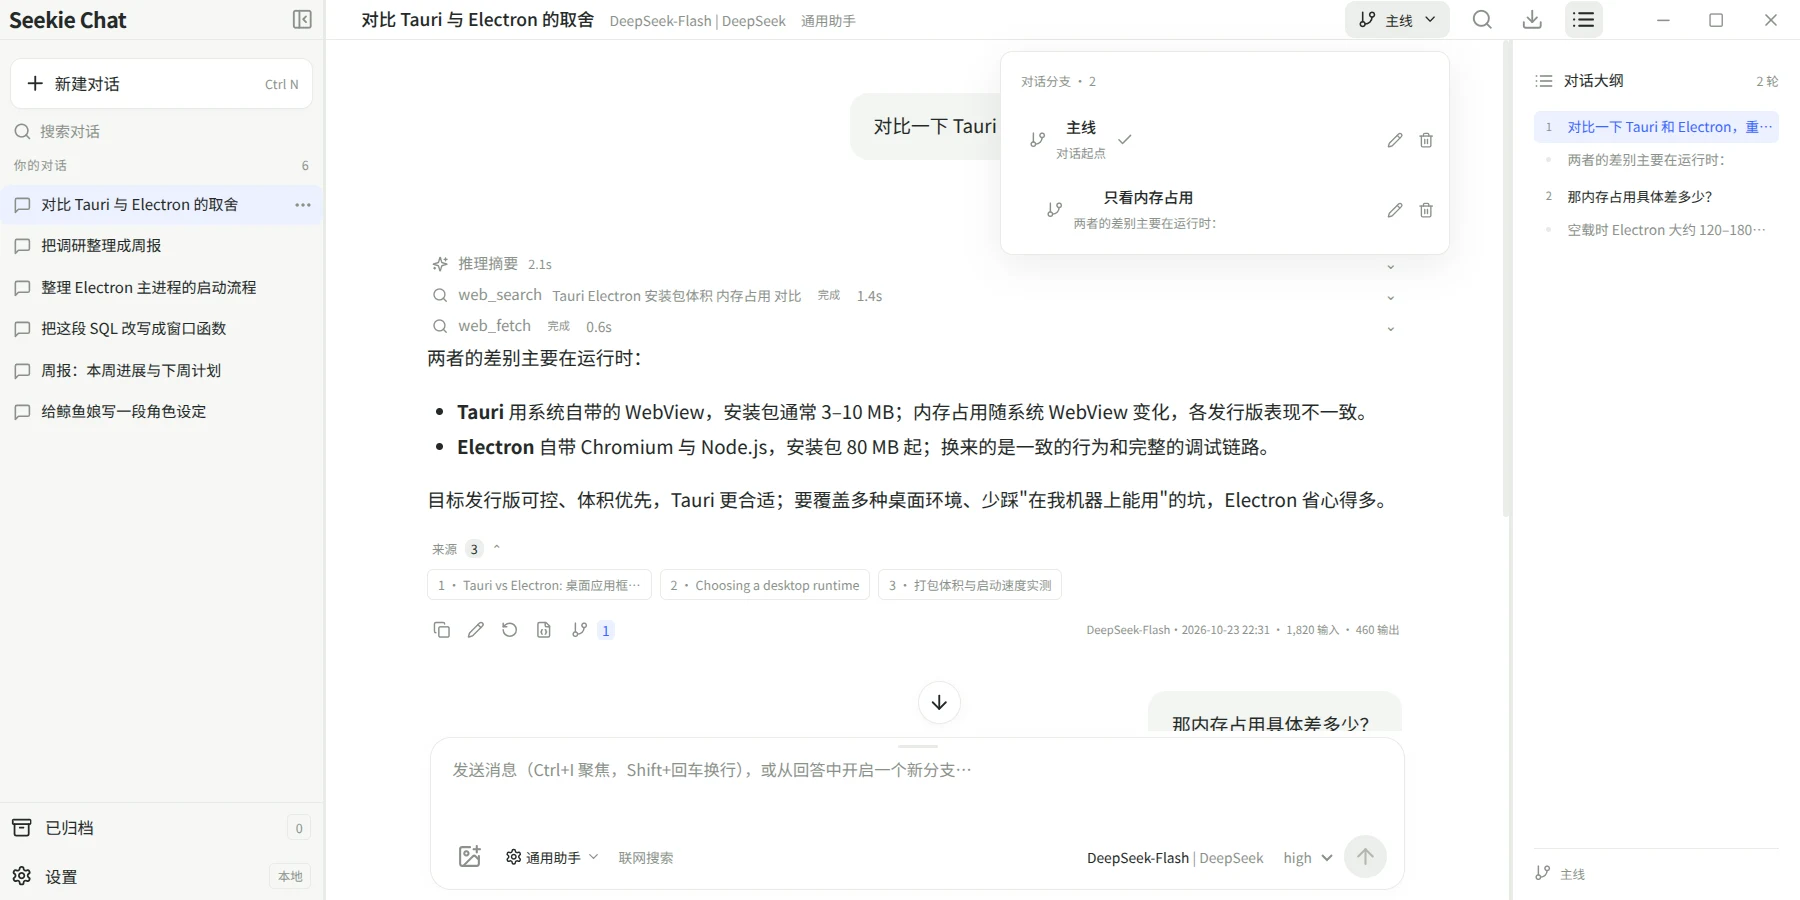
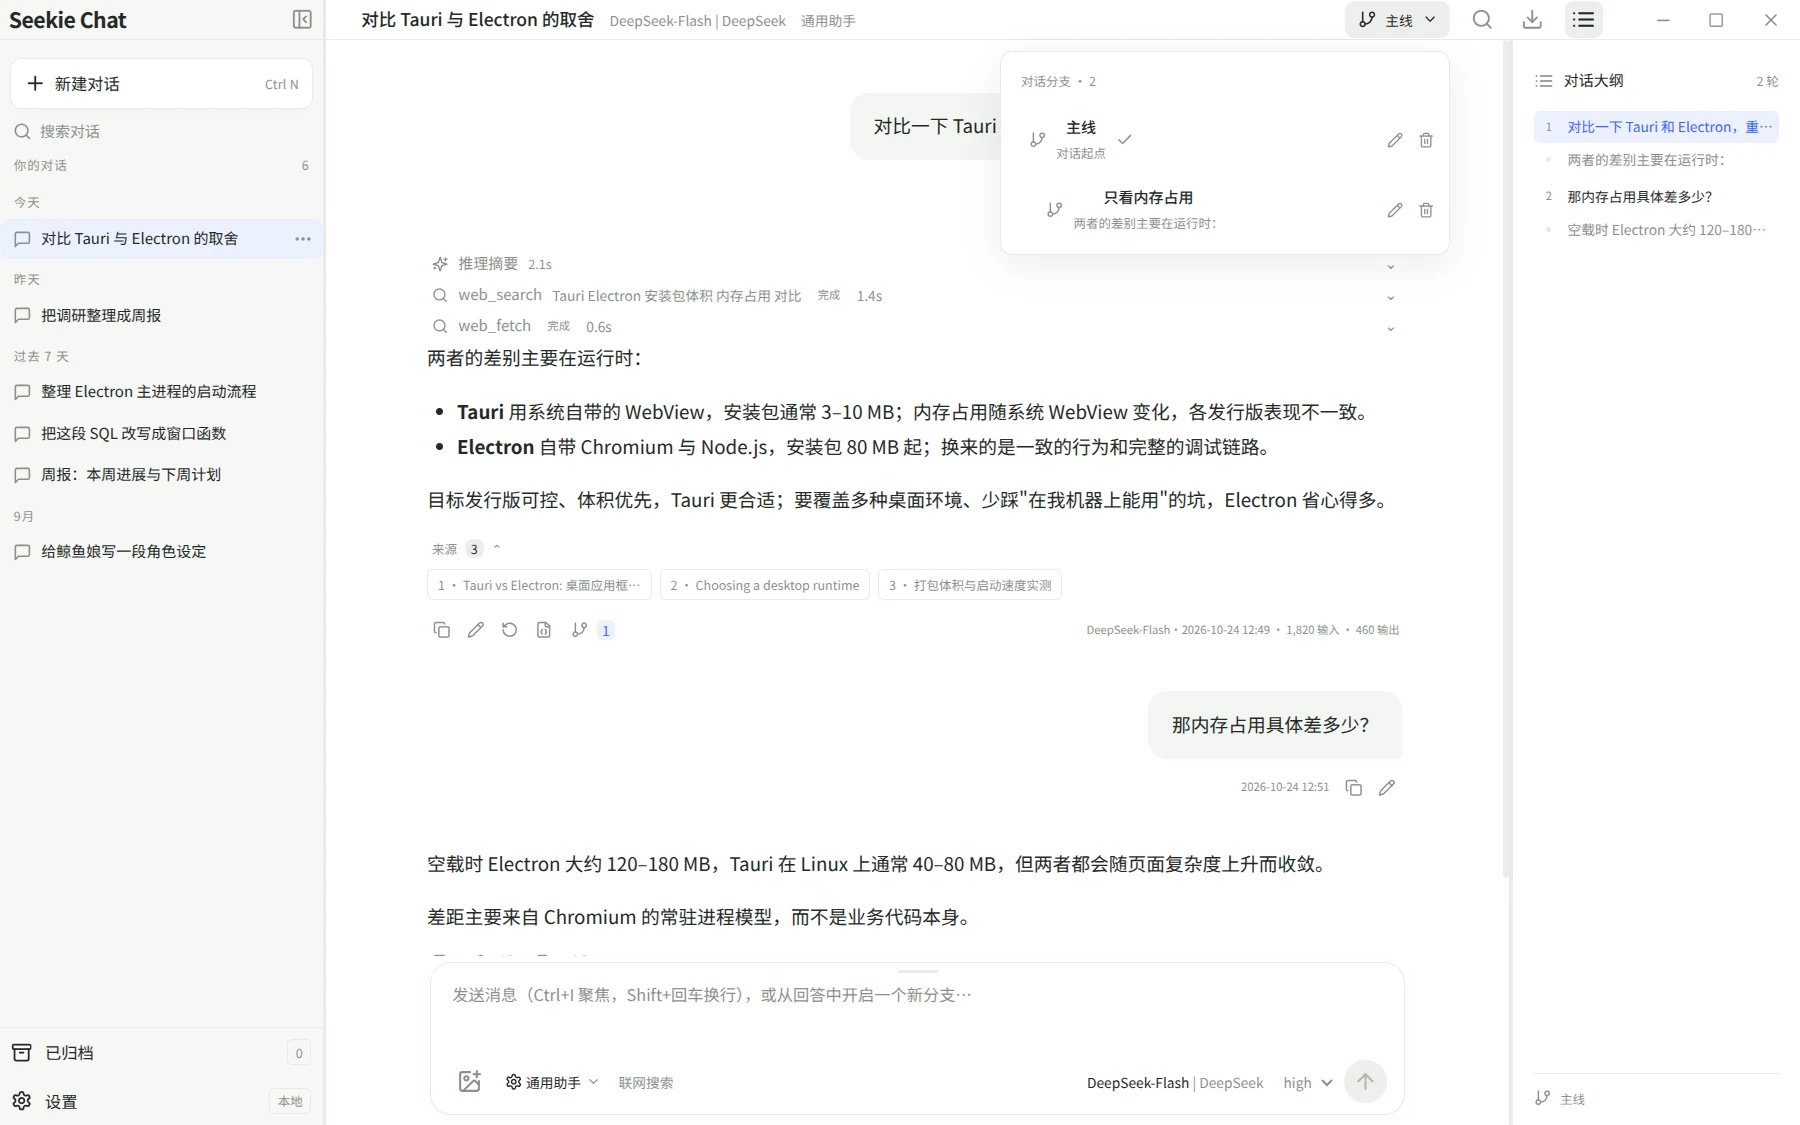
侧栏会话按作息日分组，标题吸顶
- 会话多了以后平铺列表不好找：按最后消息时间分成今天/昨天/过去 7 天/
  过去 30 天，更早的本年按月（9月）、往年按年（2025年）；空分组不显示。
  搜索与归档视图同样分组；日界线设在早上 6 点，夜猫子凌晨的消息仍归昨天。
- 分组做成 domain.ts 的纯函数：6 点边界、7/30 天、本月按月与往年按年
  都有单测覆盖；Sidebar 只负责渲染。吸顶背景用不透明的 --panel，否则
  滚过的会话会从标题下面透出来。
- 冒烟新增 sidebar time groups 阶段：注入跨分组会话（保留原会话，避免它们
  引用的附件文件被当成孤儿清理），断言标题顺序、搜索分组与吸顶偏移，最后
  还原快照。
- 截图的模拟会话时间铺开到多个分组，重新生成全部截图。
- 验证：npm run check 181 通过；npm run test:desktop 真实 Electron 冒烟 PASS。

diff --git a/tests/domain.test.ts b/tests/domain.test.ts
@@ -2,8 +2,8 @@ import { test } from 'node:test';
 import assert from 'node:assert/strict';
 import type { Connection, Model } from '../src/types';
 import { uid } from '../src/domain';
-import type { Message, Settings } from '../src/types';
-import { addMessage, appendAssistantSegment, appendReasoningDuration, applyBodies, assistantBody, branchTree, defaultModelEffort, editableBodies, compressionCut, contextMessages, connectionEnabled, createConversation, deepseekWebSearchKey, defaultModelEfforts, defaultPromptPresets, editMessage, effectiveProtocol, enabledModels, externalSearchAvailable, estimateTokens, estimateToolTokens, fallbackModelId, formatToolOutput, fork, freeModelSettings, initialState, MAX_RECENT_MODELS, messageDateTime, messageModelLabel, newChatModelId, normalizeSettings, rememberRecentModel, resetBuiltInPresets, resolveSearch, resolveDefaultWebFetch, sameMessage, pathTo, removeBranch, shouldDefaultVisionAndTools, summaryHasToolResults, toolQuery, uniqueBranchName } from '../src/domain';
+import type { Conversation, Message, Settings } from '../src/types';
+import { addMessage, appendAssistantSegment, appendReasoningDuration, applyBodies, assistantBody, branchTree, defaultModelEffort, editableBodies, compressionCut, contextMessages, connectionEnabled, conversationGroups, createConversation, deepseekWebSearchKey, defaultModelEfforts, defaultPromptPresets, editMessage, effectiveProtocol, enabledModels, externalSearchAvailable, estimateTokens, estimateToolTokens, fallbackModelId, formatToolOutput, fork, freeModelSettings, initialState, MAX_RECENT_MODELS, messageDateTime, messageModelLabel, newChatModelId, normalizeSettings, rememberRecentModel, resetBuiltInPresets, resolveSearch, resolveDefaultWebFetch, sameMessage, pathTo, removeBranch, shouldDefaultVisionAndTools, summaryHasToolResults, toolQuery, uniqueBranchName } from '../src/domain';
 import { settingsProblems } from '../src/validation';
 function fixture() {
   const c = createConversation(initialState().settings), b = c.branches[0];
@@ -761,4 +761,46 @@ test('the whale prompt is a built-in constant that outlives the role library', a
   const withoutRole = defaultPromptPresets().filter(p => p.id !== 'whale_lady');
   assert.ok(!withoutRole.some(p => p.content === WHALELADY_SYSTEM_PROMPT), '删掉角色后库里不该再有它');
   assert.equal(resetBuiltInPresets(withoutRole).find(p => p.id === 'whale_lady')!.content, WHALELADY_SYSTEM_PROMPT, '重置预设角色会把它按内置提示词补回');
+});
+
+// 侧栏分组：日界线在早上 6 点，输入已按 updated 倒序。
+const localTime = (year: number, month: number, day: number, hour = 12, minute = 0) => new Date(year, month - 1, day, hour, minute).getTime();
+const conversationUpdatedAt = (updated: number): Conversation => ({ ...createConversation(initialState().settings), title: 't', updated });
+
+test('sidebar groups put messages before 06:00 on the previous day', () => {
+  const now = localTime(2026, 10, 24, 8);
+  const groups = conversationGroups([
+    conversationUpdatedAt(localTime(2026, 10, 24, 6)),
+    conversationUpdatedAt(localTime(2026, 10, 24, 5, 59)),
+    conversationUpdatedAt(localTime(2026, 10, 23, 22)),
+  ], now);
+  assert.deepEqual(groups.map(group => [group.label, group.conversations.length]), [['今天', 1], ['昨天', 2]]);
+  assert.equal(groups[0].conversations[0].updated, localTime(2026, 10, 24, 6), '06:00 属于新的一天');
+});
+
+test('sidebar groups cover 7 and 30 day buckets, then months', () => {
+  const now = localTime(2026, 10, 24, 12);
+  const daysAgo = (days: number) => localTime(2026, 10, 24 - days);
+  const groups = conversationGroups([
+    conversationUpdatedAt(daysAgo(0)), conversationUpdatedAt(daysAgo(1)), conversationUpdatedAt(daysAgo(2)),
+    conversationUpdatedAt(daysAgo(6)), conversationUpdatedAt(daysAgo(7)), conversationUpdatedAt(daysAgo(29)),
+    conversationUpdatedAt(daysAgo(30)),
+  ], now);
+  assert.deepEqual(groups.map(group => group.label), ['今天', '昨天', '过去 7 天', '过去 30 天', '9月']);
+  assert.deepEqual(groups.map(group => group.conversations.length), [1, 1, 2, 2, 1], '空分组不应出现');
+});
+
+test('older sidebar groups use month labels this year and year labels before', () => {
+  const now = localTime(2026, 2, 10, 12);
+  const groups = conversationGroups([
+    conversationUpdatedAt(localTime(2026, 1, 5)),
+    conversationUpdatedAt(localTime(2025, 12, 15)),
+  ], now);
+  assert.deepEqual(groups.map(group => group.label), ['1月', '2025年']);
+});
+
+test('future timestamps stay under today and empty lists have no groups', () => {
+  const now = localTime(2026, 10, 24, 12);
+  assert.deepEqual(conversationGroups([conversationUpdatedAt(now + 60_000)], now).map(group => group.label), ['今天']);
+  assert.deepEqual(conversationGroups([], now), []);
 });

diff --git a/src/Sidebar.tsx b/src/Sidebar.tsx
@@ -1,5 +1,7 @@
+import { Fragment } from 'react';
 import { Archive, MessageSquare, MoreHorizontal, PanelLeftClose, Plus, Search, Settings as SettingsIcon } from 'lucide-react';
 import type { Conversation } from './types';
+import { conversationGroups } from './domain';
 
 export type MenuAnchor = { top: number; bottom: number; right: number };
 
@@ -18,16 +20,19 @@ export default function Sidebar({ width, conversations, selectedId, query, showA
       <div className="search-input"><Search size={15}/><input aria-label="搜索对话" placeholder="搜索对话" value={query} onChange={e => onQueryChange(e.target.value)}/></div>
       <div className="sidebar-label">{showArchived ? '已归档' : '你的对话'} <span>{conversations.length}</span></div>
       <div className="conversation-list" onScroll={() => { if (openMenuId) onMenu(openMenuId, null); }}>
-        {conversations.map(conversation => <div key={conversation.id} className={`conversation-item ${conversation.id === selectedId && !showSettings ? 'active' : ''}`}
-          onContextMenu={event => { event.preventDefault(); onMenu(conversation.id, { top: event.clientY, bottom: event.clientY, right: event.clientX }); }}>
-          <button className="conversation-select" onClick={() => onSelect(conversation.id)} title={conversation.title}>
-            <MessageSquare size={15}/><span>{conversation.title}</span>{runningIds.includes(conversation.id) && <i className="status-dot"/>}
-          </button>
-          <button className="conversation-more icon-button" title="会话操作" aria-haspopup="menu" aria-expanded={openMenuId === conversation.id}
-            onClick={event => { const rect = event.currentTarget.getBoundingClientRect(); onMenu(conversation.id, { top: rect.top, bottom: rect.bottom, right: rect.right }); }}>
-            <MoreHorizontal size={16}/>
-          </button>
-        </div>)}
+        {conversationGroups(conversations).map(group => <Fragment key={group.key}>
+          <div className="conversation-group">{group.label}</div>
+          {group.conversations.map(conversation => <div key={conversation.id} className={`conversation-item ${conversation.id === selectedId && !showSettings ? 'active' : ''}`}
+            onContextMenu={event => { event.preventDefault(); onMenu(conversation.id, { top: event.clientY, bottom: event.clientY, right: event.clientX }); }}>
+            <button className="conversation-select" onClick={() => onSelect(conversation.id)} title={conversation.title}>
+              <MessageSquare size={15}/><span>{conversation.title}</span>{runningIds.includes(conversation.id) && <i className="status-dot"/>}
+            </button>
+            <button className="conversation-more icon-button" title="会话操作" aria-haspopup="menu" aria-expanded={openMenuId === conversation.id}
+              onClick={event => { const rect = event.currentTarget.getBoundingClientRect(); onMenu(conversation.id, { top: rect.top, bottom: rect.bottom, right: rect.right }); }}>
+              <MoreHorizontal size={16}/>
+            </button>
+          </div>)}
+        </Fragment>)}
         {!conversations.length && <p className="sidebar-empty">{query ? '没有找到对话' : showArchived ? '暂无已归档对话' : '开始你的第一段对话'}</p>}
       </div>
       <div className="sidebar-bottom">

diff --git a/src/domain.ts b/src/domain.ts
@@ -350,6 +350,40 @@ export function branchTree(branches: Branch[]): { branch: Branch; depth: number 
   for (const branch of branches) walk(branch, 0);
   return result;
 }
+/**
+ * 侧栏按"作息日"分组：日界线在早上 6 点，凌晨 3 点的对话在早上 8 点看仍属于昨天。
+ * 输入须已按 updated 倒序；分组顺序跟着第一次遇到的时间走，空分组自然不会产生。
+ */
+const SCHEDULE_DAY_OFFSET = 6 * 60 * 60 * 1000;
+const DAY_MS = 24 * 60 * 60 * 1000;
+function scheduleDay(timestamp: number): number {
+  const local = new Date(timestamp - SCHEDULE_DAY_OFFSET);
+  // 本地年月日重新对齐到 UTC 零点再取天数差，跨夏令时也不会算错。
+  return Math.round(Date.UTC(local.getFullYear(), local.getMonth(), local.getDate()) / DAY_MS);
+}
+export type ConversationGroup = { key: string; label: string; conversations: Conversation[] };
+export function conversationGroups(conversations: Conversation[], now = Date.now()): ConversationGroup[] {
+  const today = scheduleDay(now), thisYear = new Date(now - SCHEDULE_DAY_OFFSET).getFullYear();
+  const groups: ConversationGroup[] = [], byKey = new Map<string, ConversationGroup>();
+  const add = (key: string, label: string, conversation: Conversation) => {
+    let group = byKey.get(key);
+    if (!group) { group = { key, label, conversations: [] }; byKey.set(key, group); groups.push(group); }
+    group.conversations.push(conversation);
+  };
+  for (const conversation of conversations) {
+    const age = today - scheduleDay(conversation.updated);
+    if (age <= 0) add('today', '今天', conversation);
+    else if (age === 1) add('yesterday', '昨天', conversation);
+    else if (age < 7) add('last7', '过去 7 天', conversation);
+    else if (age < 30) add('last30', '过去 30 天', conversation);
+    else {
+      const date = new Date(conversation.updated - SCHEDULE_DAY_OFFSET), year = date.getFullYear();
+      if (year === thisYear) add(`month-${year}-${date.getMonth()}`, `${date.getMonth() + 1}月`, conversation);
+      else add(`year-${year}`, `${year}年`, conversation);
+    }
+  }
+  return groups;
+}
 // A deleted model must not turn every historical answer into "未知模型": the message keeps the
 // names it was answered with, so history still explains itself.
 export function modelLabel(model: Model | undefined, connections: Connection[]): string {

diff --git a/src/styles.css b/src/styles.css
@@ -339,6 +339,17 @@ p {
   overflow-y: auto;
   overflow-x: hidden;
 }
+.conversation-group {
+  position: sticky;
+  top: 0;
+  /* 列表本身就是滚动容器；标题要盖住下面滚过的会话，背景必须不透明，否则会透出文字。 */
+  z-index: 1;
+  padding: 7px 11px 5px;
+  font-size: 10px;
+  letter-spacing: 0.8px;
+  color: var(--muted);
+  background: var(--panel);
+}
 .conversation-item {
   display: flex;
   align-items: center;

diff --git a/docs/product-requirements.md b/docs/product-requirements.md
@@ -29,6 +29,9 @@
 
 ### 2.2 会话列表
 
+- 会话按最后一条聊天消息的更新时间分组：今天、昨天、过去 7 天、过去 30 天；更早的在本年按月显示（如“9月”），往年按年显示（如“2025年”），空分组不显示。
+- 分组日界线为早上 6 点：凌晨 3 点的会话在早上 8 点查看时归入“昨天”。该规则只影响侧栏归类，消息气泡里的时间仍是真实时间。
+- 分组标题在列表滚动时吸顶；搜索与归档视图同样按时间分组。
 - 支持新建、打开、重命名、删除、按标题搜索和归档；可切换查看已归档会话，并随时取消归档。
 - 默认按最后一条聊天消息的更新时间倒序排列，后台标题生成不改变排序。
 - 手动改名立即保存，并且不再被后台自动生成标题覆盖。

diff --git a/docs/screenshots.md b/docs/screenshots.md
@@ -4,7 +4,7 @@
 
 ## 主界面
 
-三栏布局：左侧会话列表、中间对话、右侧问答大纲。回答上方是推理摘要与工具调用（工具名后跟查询词），下方是引用来源与用量指标。
+三栏布局：左侧会话列表、中间对话、右侧问答大纲。会话列表按最后消息时间分组（今天、昨天、过去 7 天、过去 30 天，更早的按月或按年），日界线是早上 6 点，分组标题随滚动吸顶。回答上方是推理摘要与工具调用（工具名后跟查询词），下方是引用来源与用量指标。
 
 ![主界面](screenshots/main-window.webp)
 
